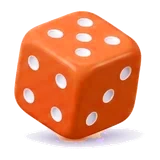
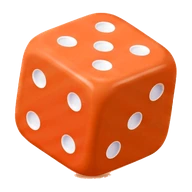
Bosh sahifadagi besh bo'lim ham 3D belgi bilan
Panel belgilari 3D bo'lgach, bosh sahifadagi besh bo'lim chiziqli
belgi bilan qolib ketdi va ikkalasi bir ekranda ikki xil ilovadan
kelgandek ko'rinardi. Endi ular ham bir tilda gapiradi.

SOYA RASMGA KUYDIRILMAYDI. Higgsfield varaqni oq fonda chizadi va
soya o'sha oq fon uchun hisoblangan bo'ladi — qorong'i panelda u oq
chaplamaga aylanadi. Shuning uchun kesishda soya ham olib tashlanadi
va `drop-shadow` bilan CSS'da beriladi: u temaga qarab o'zgaradi va
rasm hajmini oshirmaydi. Panel belgilari ham shunga o'tkazildi.

Soyani yaltiroqdan ajratish YORQINLIK bilan emas, JOYLASHUV bilan:
ikkalasi ham rangsiz va ochiq, lekin yaltiroq belgining ichida,
rangli piksellar bilan o'ralgan. Chetdan rangsiz piksellar bo'ylab
quyilganda to'lqin rangli devorga urilib to'xtaydi va belgi ichiga
kira olmaydi — yetib borgani faqat fon va soya bo'ladi.

Harakat: bosilganda belgi ichkariga bosiladi, karta emas. Karta
allaqachon `clay-press` bilan qimirlaydi va ikkalasi birga
harakatlansa, bitta bosishga ikkita javob bo'lib ko'zga urardi.

Zar binafsha, planshet to'q sariq chizilgan edi — `panelBelgi.tsx`
dagi qoida esa teskarisini talab qiladi (o'yin issiq rangda, ya'ni
"dam", qolganlari sovuq, ya'ni "ish"). Rang burab to'g'rilandi.

diff --git a/frontend/src/index.css b/frontend/src/index.css
@@ -1600,3 +1600,45 @@
 @media (prefers-reduced-motion: reduce) {
   .hajmli.jonli { animation: none }
 }
+
+/* ============================================================
+   3D BELGILAR — pastki panel va bosh sahifadagi bo'limlar
+   ============================================================
+   Soya rasmga KUYDIRILMAGAN, u shu yerda beriladi. Sabab: rasmga
+   kuydirilgan soya bitta fon uchun chizilgan bo'lardi va ikkinchi
+   temada yot ko'rinardi. `drop-shadow` esa belgining shakli bo'ylab
+   tushadi va temaga qarab o'zgaradi. */
+.az-eshik-belgi {
+  filter: drop-shadow(0 2px 3px rgb(0 0 0 / 0.22));
+  transition: transform 260ms cubic-bezier(0.34, 1.35, 0.64, 1);
+}
+.az-pb-rasm {
+  filter: saturate(0.55) opacity(0.62)
+          drop-shadow(0 1px 2px rgb(0 0 0 / 0.2));
+}
+.az-pb-rasm.az-pb-faol {
+  filter: saturate(1) opacity(1)
+          drop-shadow(0 2px 4px rgb(0 0 0 / 0.28));
+}
+:root[data-tema][data-yoruglik="qora"] .az-pb-rasm.az-pb-faol {
+  filter: saturate(1.05) opacity(1)
+          drop-shadow(0 0 7px rgb(255 255 255 / 0.18));
+}
+
+/* Bosilganda belgi ichkariga bosiladi — butun karta emas, aynan
+   BELGI. Karta allaqachon `clay-press` bilan bosiladi va ikkalasi
+   birga qimirlasa, harakat ikki baravar bo'lib ko'zga urardi. */
+.clay-press:active .az-eshik-belgi { transform: scale(0.88) rotate(-4deg); }
+
+/* Qutining ichki yumshoq nuri — belgi yassi fonda emas, chuqurchada
+   turgandek ko'rinadi. Rangi qutining O'Z rangidan olinadi, ya'ni
+   har bo'limda boshqacha va qo'lda yozilmaydi. */
+.az-eshik-quti {
+  box-shadow: inset 0 1px 0 rgb(255 255 255 / 0.22),
+              inset 0 -2px 4px rgb(0 0 0 / 0.07);
+}
+
+@media (prefers-reduced-motion: reduce) {
+  .az-eshik-belgi { transition: none; }
+  .clay-press:active .az-eshik-belgi { transform: none; }
+}

diff --git a/frontend/src/screens/Bosh.tsx b/frontend/src/screens/Bosh.tsx
@@ -298,15 +298,18 @@ function Eshik({
         <button type="button" onClick={on}
           className="clay-press flex w-full items-center gap-3 rounded-clay bg-karta
                      p-3.5 text-left shadow-clay-sm">
-          {/* BELGI — ilovaning O'Z chiziqli belgisi, emoji EMAS.
-              Emoji har qurilmada boshqacha chiziladi (Windowsda ba'zisi
-              umuman chizilmaydi) va menyudagi satrlar bilan yonma-yon
-              qo'yilganda ular ikki xil ilovadan kelgandek ko'rinardi.
-              Rang esa fonda yumshoq holda turadi — menyudagi qoida
-              bilan bir xil (`components/Menyu.tsx` dagi `Satr`). */}
-          <span aria-hidden style={{ backgroundColor: `${r.road}1f`, color: r.road }}
-            className="grid size-[46px] shrink-0 place-items-center rounded-[16px]">
-            <Icon name={ic} size={23} />
+          {/* BELGI — 3D chizma, emoji EMAS va chiziqli ikonka ham emas.
+              Emoji har qurilmada boshqacha chiziladi. Chiziqli belgi
+              esa bu yerda juda tinch turardi: bu beshta satr bosh
+              sahifaning ASOSIY tanlovi va ular ko'zga birinchi
+              tashlanishi kerak. Rang fonda yumshoq holda turadi —
+              menyudagi qoida bilan bir xil (`components/Menyu.tsx`
+              dagi `Satr`). */}
+          <span aria-hidden style={{ backgroundColor: `${r.road}1f` }}
+            className="az-eshik-quti grid size-[46px] shrink-0 place-items-center
+                       rounded-[16px]">
+            <img src={`/belgi/${ic}.webp`} width={34} height={34} alt=""
+              className="az-eshik-belgi" decoding="async" loading="lazy" />
           </span>
           <span className="min-w-0 flex-1">
             <span className="block font-display text-[15px] leading-tight">{nom}</span>
